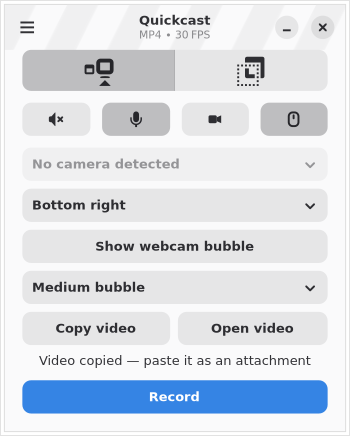
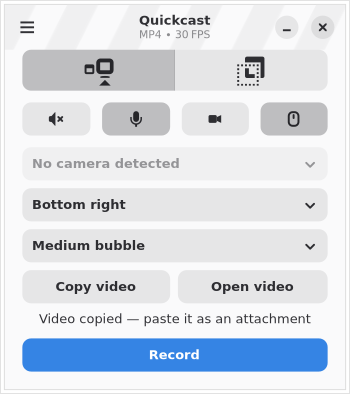
Use webcam toggle as the single bubble control

diff --git a/src/window/mod.rs b/src/window/mod.rs
@@ -268,17 +268,6 @@ impl Window {
         corners.set_tooltip_text(Some("Webcam corner"));
         settings.bind_camera_corner(&corners, "selected").build();
         controls.append(&corners);
-        let preview = gtk::Button::with_label("Show webcam bubble");
-        preview.connect_clicked(clone!(
-            #[weak(rename_to = window)]
-            self,
-            move |_| {
-                if let Err(err) = window.preview_camera() {
-                    window.present_recording_error_dialog(&err);
-                }
-            }
-        ));
-        controls.append(&preview);
         let sizes = gtk::DropDown::from_strings(&["Small bubble", "Medium bubble", "Large bubble"]);
         sizes.set_selected(1);
         sizes.connect_selected_notify(clone!(
@@ -372,17 +361,6 @@ impl Window {
         if let Some(bubble) = self.imp().bubble.borrow().as_ref() {
             bubble.feed.place(x, y, width);
         }
-    }
-
-    fn preview_camera(&self) -> Result<()> {
-        let settings = Application::get().settings().clone();
-        settings.set_record_camera(true);
-        let bubble = self.imp().bubble.borrow();
-        let bubble = bubble
-            .as_ref()
-            .ok_or_else(|| anyhow::anyhow!("The camera could not be opened"))?;
-        bubble.window.present();
-        Ok(())
     }
 
     /// Returns `true` if the window is busy with a recording.

diff --git a/README.md b/README.md
@@ -25,9 +25,9 @@ Alternatively, install the `.flatpak` bundle from this repository's releases.
 1. Choose a monitor/window or a screen region.
 2. Toggle microphone and desktop audio. Microphone is enabled by default;
    desktop audio is optional.
-3. Toggle the webcam button next to the microphone, select a camera, and use
-   **Show webcam bubble**. Drag the floating camera window to position it. The
-   bubble remains live during recording; its size menu offers three sizes.
+3. Select a camera and toggle the webcam button next to the microphone to show
+   the floating bubble. Drag it to position it; toggle the webcam off to hide it.
+   The bubble remains live during recording; its size menu offers three sizes.
 4. Press **Record**. Press **Stop** when finished.
 5. The completion window appears and copies the video file. Paste in an app
    that accepts file attachments. **Copy video** copies the latest recording again;
